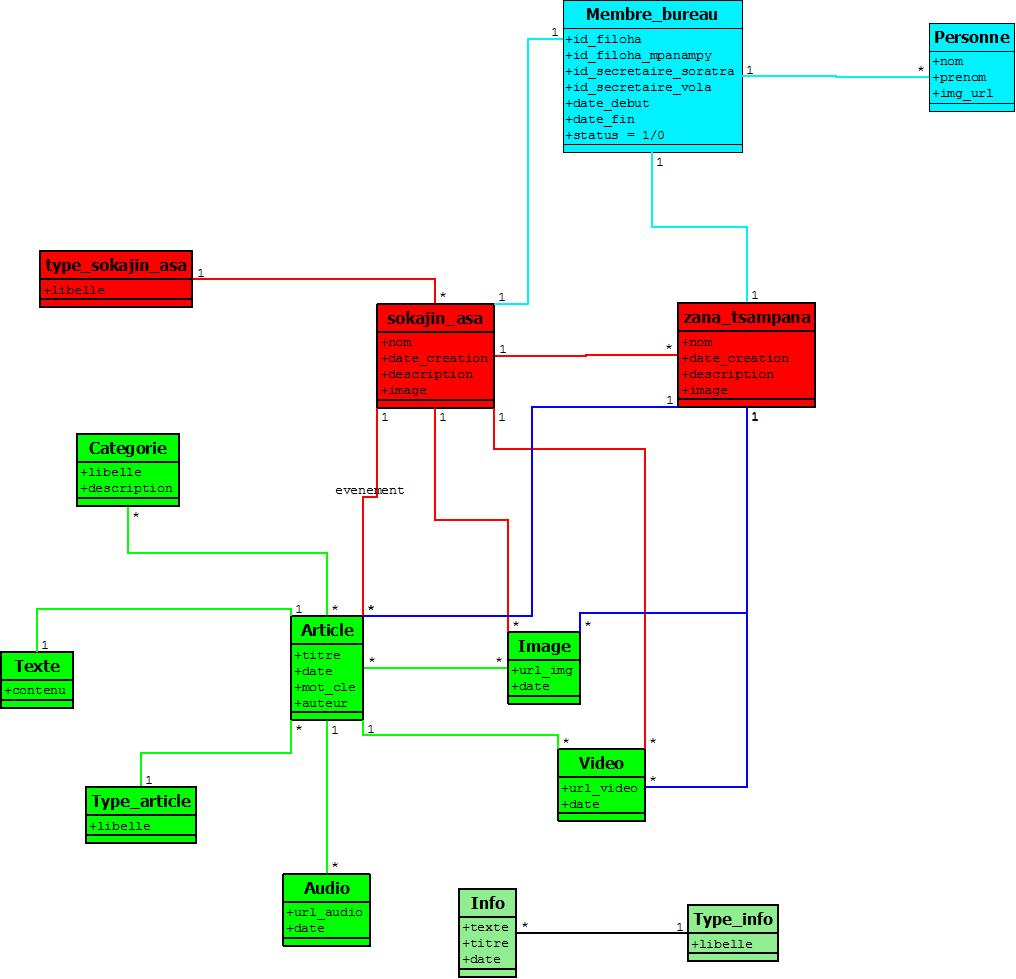
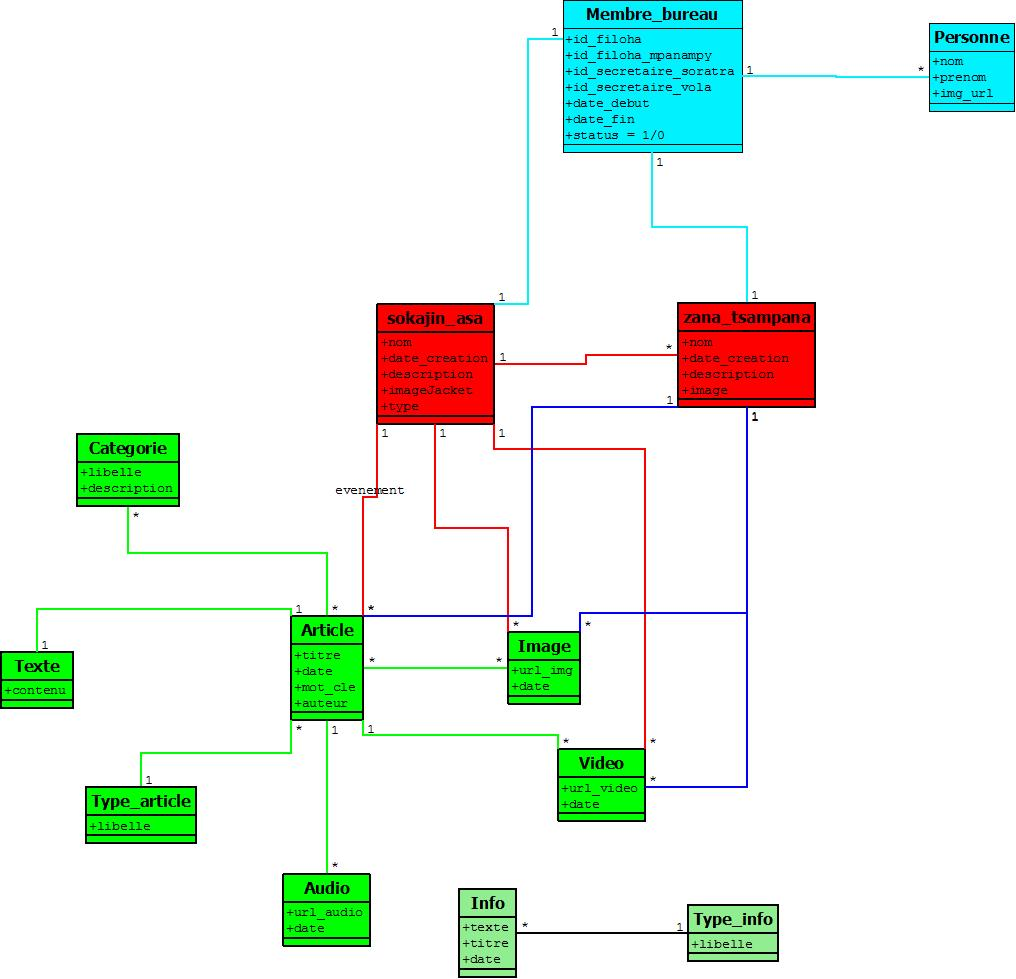
suite sokajin'asa

diff --git a/src/backBundle/Controller/SokajinAsaController.php b/src/backBundle/Controller/SokajinAsaController.php
@@ -7,6 +7,7 @@ use Symfony\Bundle\FrameworkBundle\Controller\Controller;
 use Sensio\Bundle\FrameworkExtraBundle\Configuration\Route;
 use Sensio\Bundle\FrameworkExtraBundle\Configuration\Method;
 use \Symfony\Component\HttpFoundation\Response;
+use backBundle\Entity\SokajinAsa;
 
 /**
  * Sampana controller.
@@ -17,24 +18,54 @@ class SokajinAsaController extends Controller
 {
     
     /**
-     * @Route("/{type}", name="sampana_index")
+     * @Route("/{type}", name="sokajy_index")
      * @Method("GET")
      */
     public function indexAction($type)
     {
+        $sokajyServ = $this->container->get('sokajinAsaService');
         
-        
+        $list = $sokajyServ->findAll($type);
         
         return $this->render('backBundle:SokajinAsa:index.html.twig', array(
             "type" => $type,
+            "list" => $list,
         ));
     }
     
     /**
-     * @Route("/{type}/add", name="sokajy_add")
+     * @Route("/{type}/ajouter", name="sokajy_add")
      * @Method({"GET", "POST"})
      */
-    public function addAction($type)
+    public function addAction(Request $request, $type)
+    {
+        
+        if ($request->isMethod('POST'))
+        {
+            $sokajyServ = $this->container->get('sokajinAsaService');
+            
+            $sokajyServ->save($request);
+            
+//            $info->setDate(new \DateTime($request->request->get("info")["date"]));
+//            $info->setType($typeInfoServ->find($info->getTypeId()));
+//            
+//            $infoServ->save($info);
+            
+            return $this->redirectToRoute('sokajy_index', array(
+                "type" => $type,
+            ));
+        }
+        
+        return $this->render('backBundle:SokajinAsa:add.html.twig', array(
+            "type" => $type,
+        ));
+    }
+    
+        /**
+     * @Route("/{type}/modifier/{id}", name="sokajy_update_view")
+     * @Method("GET")
+     */
+    public function updateViewAction($type, $id)
     {
         
         
@@ -44,4 +75,36 @@ class SokajinAsaController extends Controller
         ));
     }
     
+    
+    /**
+     * @Route("/{type}/modifier", name="sokajy_update")
+     * @Method("POST")
+     */
+    public function updateAction($type)
+    {
+        
+        
+        
+        return $this->render('backBundle:SokajinAsa:add.html.twig', array(
+            "type" => $type,
+        ));
+    }
+    
+    
+        /**
+     * @Route("/{type}/supprimer/{id}", name="sokajy_delete")
+     * @Method("GET")
+     */
+    public function deleteAction($type, $id)
+    {
+        $sokajyServ = $this->container->get('sokajinAsaService');
+        
+        $sokajyServ->delete($id);
+        
+        return $this->redirectToRoute('sokajy_index', array(
+                "type" => $type,
+        ));
+    }
+    
+
 }

diff --git a/src/backBundle/Entity/SokajinAsa.php b/src/backBundle/Entity/SokajinAsa.php
@@ -47,29 +47,21 @@ class SokajinAsa
     private $description;
     
     /**
-     * @ORM\Column(name="type_id", type="integer")
+     * @ORM\Column(name="type", type="string", length=100)
      */
-    private $typeId;
-    
-    /**
-     * @ORM\ManyToOne(targetEntity="Type_SokajinAsa", cascade={"persist"})
-     * @ORM\JoinColumn(name="type_id", referencedColumnName="id")
-     * @ORM\JoinColumn(nullable=false)
-    */
     private $type;
+
+    /**
+     * @ORM\Column(name="imageJacket", type="string", length=500)
+     */
+    private $imageJacket;
     
     /**
      * @ORM\ManyToMany(targetEntity="Article", cascade={"persist"})
      * @ORM\JoinColumn(nullable=true)
     */
     private $articles;
-    
-    /**
-     * @ORM\OneToOne(targetEntity="Image", cascade={"persist"})
-     * @ORM\JoinColumn(nullable=false)
-    */
-    private $imageJacket;
-    
+ 
     /**
      * @ORM\ManyToMany(targetEntity="Image", cascade={"persist"})
      * @ORM\JoinColumn(nullable=true)
@@ -191,11 +183,10 @@ class SokajinAsa
     /**
      * Set type
      *
-     * @param \backBundle\Entity\Type_SokajinAsa $type
      *
      * @return SokajinAsa
      */
-    public function setType(\backBundle\Entity\Type_SokajinAsa $type = null)
+    public function setType($type)
     {
         $this->type = $type;
 
@@ -205,7 +196,6 @@ class SokajinAsa
     /**
      * Get type
      *
-     * @return \backBundle\Entity\Type_SokajinAsa
      */
     public function getType()
     {
@@ -385,11 +375,10 @@ class SokajinAsa
     /**
      * Set imageJacket
      *
-     * @param \backBundle\Entity\Image $imageJacket
      *
      * @return SokajinAsa
      */
-    public function setImageJacket(\backBundle\Entity\Image $imageJacket)
+    public function setImageJacket($imageJacket)
     {
         $this->imageJacket = $imageJacket;
 
@@ -399,7 +388,6 @@ class SokajinAsa
     /**
      * Get imageJacket
      *
-     * @return \backBundle\Entity\Image
      */
     public function getImageJacket()
     {

diff --git a/src/backBundle/Services/SokajinAsaService.php b/src/backBundle/Services/SokajinAsaService.php
@@ -1,0 +1,57 @@
+<?php
+
+/*
+ * To change this license header, choose License Headers in Project Properties.
+ * To change this template file, choose Tools | Templates
+ * and open the template in the editor.
+ */
+
+namespace backBundle\Services;
+
+use Doctrine\ORM\EntityManager;
+use Symfony\Component\HttpFoundation\Request;
+use backBundle\Entity\SokajinAsa;
+
+/**
+ * Description of SokajinAsaService
+ *
+ * @author ptdr-Onja
+ */
+class SokajinAsaService {
+    
+    protected $em;
+
+    public function __construct(EntityManager $entityManager)
+    {
+        $this->em = $entityManager;
+    }
+    
+    public function findAll($type)
+    {
+        $list = $this->em->getRepository('backBundle:SokajinAsa')->getAllByType($type);
+        
+        return $list;
+    }
+    
+    public function save(Request $request)
+    { 
+        $sokajy = new SokajinAsa();
+        
+        $sokajy->setNom($request->request->get("nom"));
+        $sokajy->setImageJacket($request->request->get("imageJacket"));
+        $sokajy->setType($request->request->get("type"));
+        $sokajy->setDescription($request->request->get("description"));
+        $sokajy->setDateCreation(new \DateTime($request->request->get("dateCreation")));
+        
+        $this->em->persist($sokajy);
+        $this->em->flush();
+    }
+    
+     public function delete($id)
+    {
+        $sokajy = $this->em->getRepository('backBundle:SokajinAsa')->find($id);
+        
+        $this->em->remove($sokajy);
+        $this->em->flush();
+    }
+}

diff --git a/src/backBundle/Form/SokajinAsaType.php b/src/backBundle/Form/SokajinAsaType.php
@@ -1,0 +1,35 @@
+<?php
+
+namespace backBundle\Form;
+
+use Symfony\Component\Form\AbstractType;
+use Symfony\Component\Form\FormBuilderInterface;
+use Symfony\Component\OptionsResolver\OptionsResolver;
+
+class SokajinAsaType extends AbstractType
+{
+    /**
+     * @param FormBuilderInterface $builder
+     * @param array $options
+     */
+    public function buildForm(FormBuilderInterface $builder, array $options)
+    {
+        $builder
+            ->add('nom')
+            ->add('dateCreation', 'date')
+            ->add('description')
+            ->add('type')
+            ->add('imageJacket')
+        ;
+    }
+    
+    /**
+     * @param OptionsResolver $resolver
+     */
+    public function configureOptions(OptionsResolver $resolver)
+    {
+        $resolver->setDefaults(array(
+            'data_class' => 'backBundle\Entity\SokajinAsa'
+        ));
+    }
+}

diff --git a/src/backBundle/Repository/SokajinAsaRepository.php b/src/backBundle/Repository/SokajinAsaRepository.php
@@ -10,4 +10,18 @@ namespace backBundle\Repository;
  */
 class SokajinAsaRepository extends \Doctrine\ORM\EntityRepository
 {
+    public function getAllByType($type)
+    {
+        $em = $this->_em;
+        $query = $em->createQuery(
+            "SELECT sokajy
+            FROM backBundle:SokajinAsa sokajy
+            WHERE sokajy.type = '$type'
+            "
+        );
+
+        $article = $query->getResult();
+        
+        return $article;
+    }
 }
